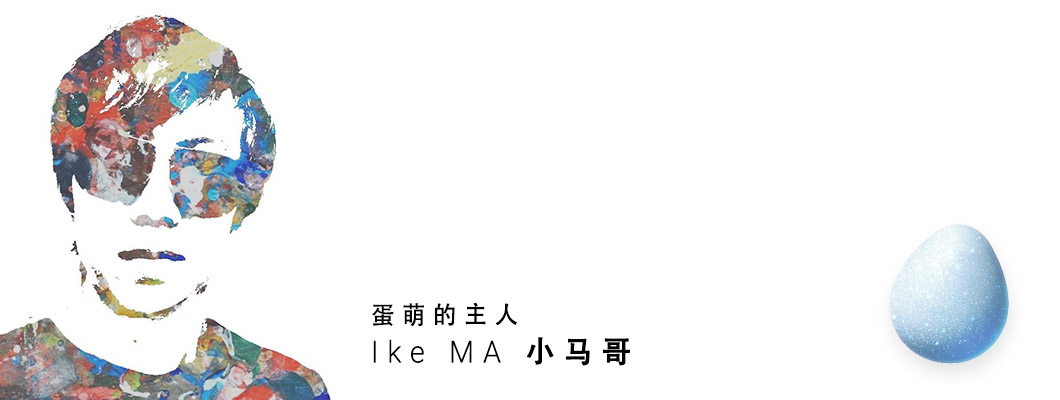
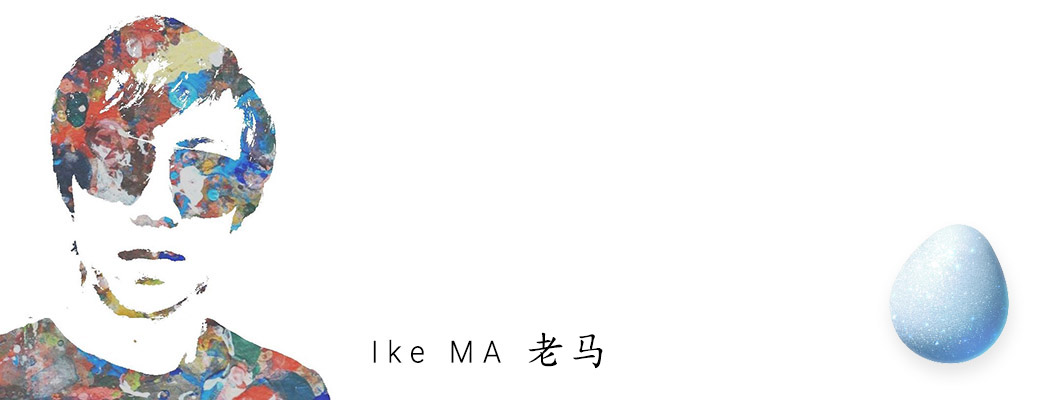
updated new site name

Changed region(s): [[0.4981, 0.84, 0.5915, 0.93], [0.3425, 0.75, 0.4981, 0.81]]

diff --git a/_includes/_partials/footer.html b/_includes/_partials/footer.html
@@ -1,6 +1,6 @@
 <div class="copyright" >
   {% assign current = site.time | date: '%Y' %}
   {% assign since = site.since | downcase %}
-  今天的老马 ike.today &copy; {% if site.since and since != current %} {{ since }} - {% endif %}
+  「今日的老马」ike.today &copy; {% if site.since and since != current %} {{ since }} - {% endif %}
   <span class="author" itemprop="copyrightHolder"> <a href="{{site.url}}/about/">MZY'S Studio</a>, 2005-{{ 'now' | date: "%Y" }}.</span>　|　<a href="https://ike.today/about/#本站所用技术">感谢</a>
 </div>

diff --git a/email-subscriber.html b/email-subscriber.html
@@ -3,7 +3,7 @@ layout: null
 ---
 <html>
     <head>
-        <title>Ike's today 有故事的老马 - 邮件订阅</title>
+        <title>Ike's today 今天的老马 - 邮件订阅</title>
         <style>
             p {
                 color: #333;

diff --git a/_posts/2019/2019-04-19-wu-ye-shi-ling.md b/_posts/2019/2019-04-19-wu-ye-shi-ling.md
@@ -8,7 +8,7 @@ featured_position: center
 ---
 
 ## 序
-2019年4月的一天，一次偶然，一个兴趣，促成了《午夜拾零》 的诞生，成为了蛋萌成立后的第一个作品。讲述人**大平面包**讲是一位慈祥的父亲，也是我的岳父，如今已经七十多岁了。《午夜拾零》讲述了他亲身经历和曾经听说的小故事，故事真实、纯粹、暖心、幽默，从策划到前期制作，历时六个月，倾注了老婆大人无尽的心血。
+2019年4月的一天，一次偶然，一个兴趣，促成了《午夜拾零》 的诞生，也是新博客成立后的第一个作品。讲述人**大平面包**讲是一位慈祥的父亲，也是我的岳父，如今已经七十多岁了。《午夜拾零》讲述了他亲身经历和曾经听说的小故事，故事真实、纯粹、暖心、幽默，从策划到前期制作，历时六个月，倾注了老婆大人无尽的心血。
 
 ![午夜拾零节目截图](/assets/img/posts/midnight-tales/screenshot-night-tales.jpg)
 ***讲述人：大平面包***

diff --git a/_posts/2018/2018-02-09-vs-code-show-hidden-characters.md b/_posts/2018/2018-02-09-vs-code-show-hidden-characters.md
@@ -12,7 +12,7 @@ english: false
 ---
 
 
-今天编辑[我的博客](https://done.moe/)，发现在Mac的Chrome上没有问题，但在Windows的Chrome浏览器，有的地方会出现一个黑底中间是个菱形的奇怪符号，我以为浏览器的问题，于是我用Mac下载了这个网页，然后用Sublime查看，的确里面出现了[BS]标识的字符。但是在VS Code里面没有显示出这个符号。
+今天编辑[我的博客](https://ike.today/)，发现在Mac的Chrome上没有问题，但在Windows的Chrome浏览器，有的地方会出现一个黑底中间是个菱形的奇怪符号，我以为浏览器的问题，于是我用Mac下载了这个网页，然后用Sublime查看，的确里面出现了[BS]标识的字符。但是在VS Code里面没有显示出这个符号。
 
 ## Solution
 Google了一下，原来VS Code默认不显示特殊字符，这个字符应该是一个隐藏的空格。至于怎么生成出来的就不得而知了。解决办法是这样的：

diff --git a/_posts/2018/2018-01-30-the-first-page.md b/_posts/2018/2018-01-30-the-first-page.md
@@ -13,7 +13,7 @@ categories: Blog
 comments: true
 ---
 
-从 MZY’S Blog 到 DONE.MOE，我的博客也经历了很多次变故。经历了这么多新的开始，所以总是在写第一篇博客，就像盖房子，总是在盖一层。所以博客这个名字不好，所以这次决定改名为小屋，且只有一层:)
+从 MZY’S Blog 到 ``ike.today``，我的博客也经历了很多次变故。经历了这么多新的开始，所以总是在写第一篇博客，就像盖房子，总是在盖一层。所以博客这个名字不好，所以这次决定改名为小屋，且只有一层:)
 
 以前有很多粉丝（十多年前），那是因为我写了软件 WisMencoder，这是曾经的辉煌。现在在国外工作几年，我也在续写新的辉煌。而且现在我喜欢上了摄影。
 

diff --git a/_posts/2018/2018-11-30-news-my-zhihu-zhuanlan-published.md b/_posts/2018/2018-11-30-news-my-zhihu-zhuanlan-published.md
@@ -5,7 +5,7 @@ author: Ike
 tags:
 - 爱屋及乌
 - 知乎专栏
-- done.moe
+- ike.today
 - zhihu
 categories: News
 english: false
@@ -16,7 +16,7 @@ featured: "walking-at-ushuaia.jpg"
 
 专栏地址：[https://zhuanlan.zhihu.com/ikema](https://zhuanlan.zhihu.com/ikema)
 
-爱屋及乌将会定期发布本博客「蛋萌 Done.moe」上的热门文章，并利用知乎平台把文章传播给更多需要他们的人，也间接激励我继续学新的知识。继续分享下去。
+爱屋及乌将会定期发布本博客「今日的老马」的热门文章，并利用知乎平台把文章传播给更多需要他们的人，也间接激励我继续学新的知识。继续分享下去。
 
 活到老，学到老，希望我能继续坚持。
 

diff --git a/_posts/2018/2018-11-09-optimize-amazfit-sport-watch-2.md b/_posts/2018/2018-11-09-optimize-amazfit-sport-watch-2.md
@@ -15,7 +15,7 @@ featured: "amazfit-stratos.jpg"
 
 ## 前言
 
-上一篇我已经介绍了如何延长华米运动手表2的续航，如果没有阅读的蛋友可以参考。[传送门](https://done.moe/tutorial/2018/10/31/battery-experience-of-amazfit-sport-watch-2/)
+上一篇我已经介绍了如何延长华米运动手表2的续航，如果没有阅读的蛋友可以参考。[传送门](https://ike.today/tutorial/2018/10/31/battery-experience-of-amazfit-sport-watch-2/)
 
 今天我们说说如何改善你的华米手表2，使你的手表更好用，更耐玩！
 

diff --git a/_posts/2018/2018-11-18-notes-about-angular.md b/_posts/2018/2018-11-18-notes-about-angular.md
@@ -17,7 +17,7 @@ featured: "notes-about-angular.jpg"
 **此笔记根据我在Udemy的Angular视频课程而总结形成。**
 
 **做此笔记主要是为了督促自己学习，也是为了方便其他学习者。转载请注明出处。**
-[https://done.moe/cheat-sheet/2018/11/18/notes-about-angular/](https://done.moe/cheat-sheet/2018/11/18/notes-about-angular/)
+[https://ike.today/cheat-sheet/2018/11/18/notes-about-angular/](https://ike.today/cheat-sheet/2018/11/18/notes-about-angular/)
 
 **Day 1**
 ## 快速上手
